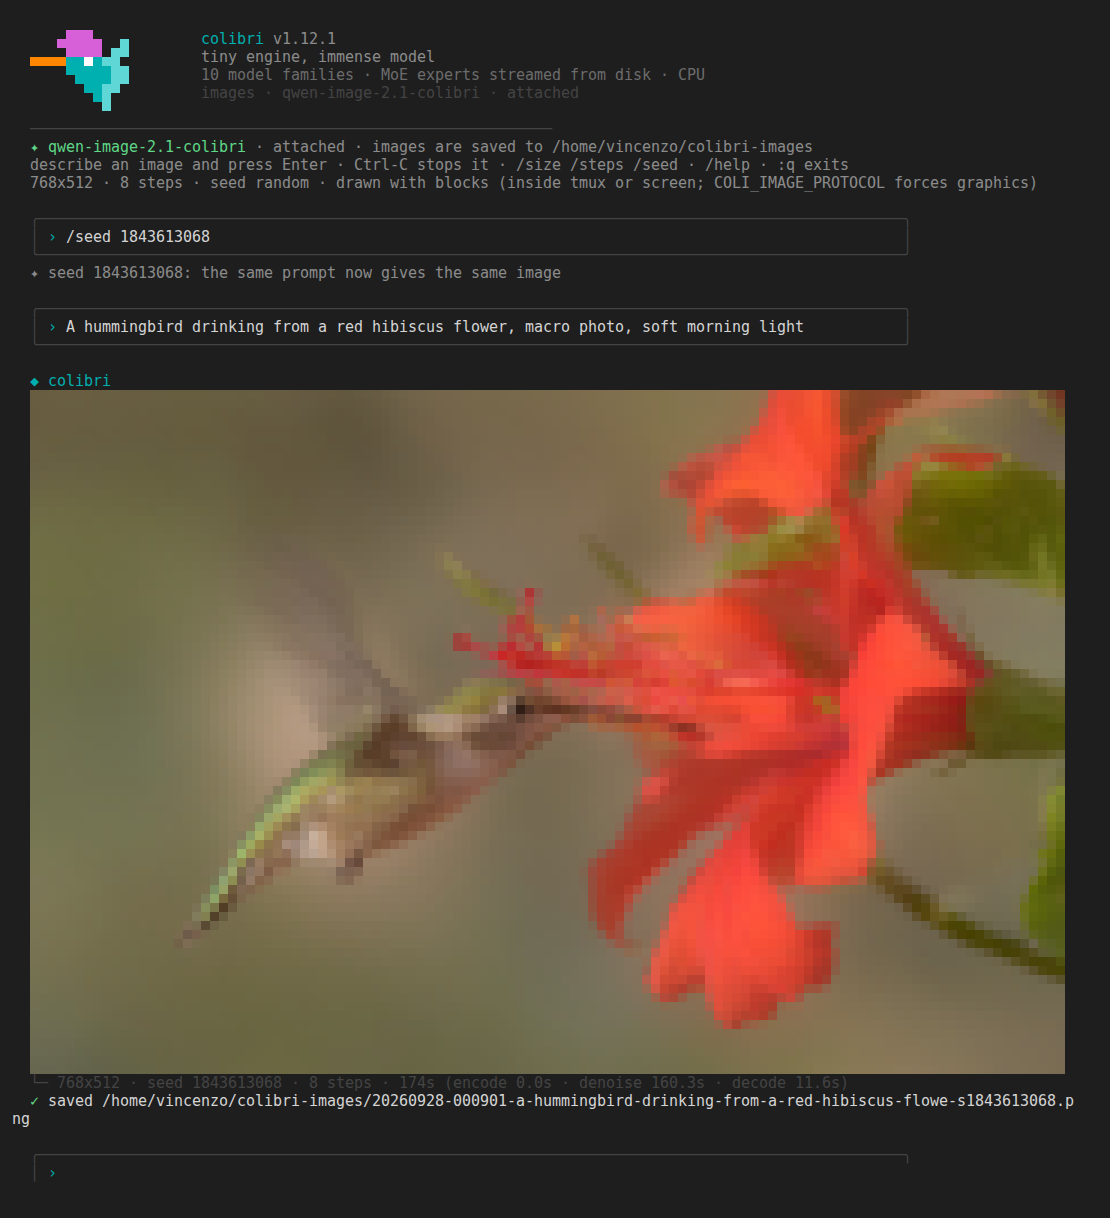
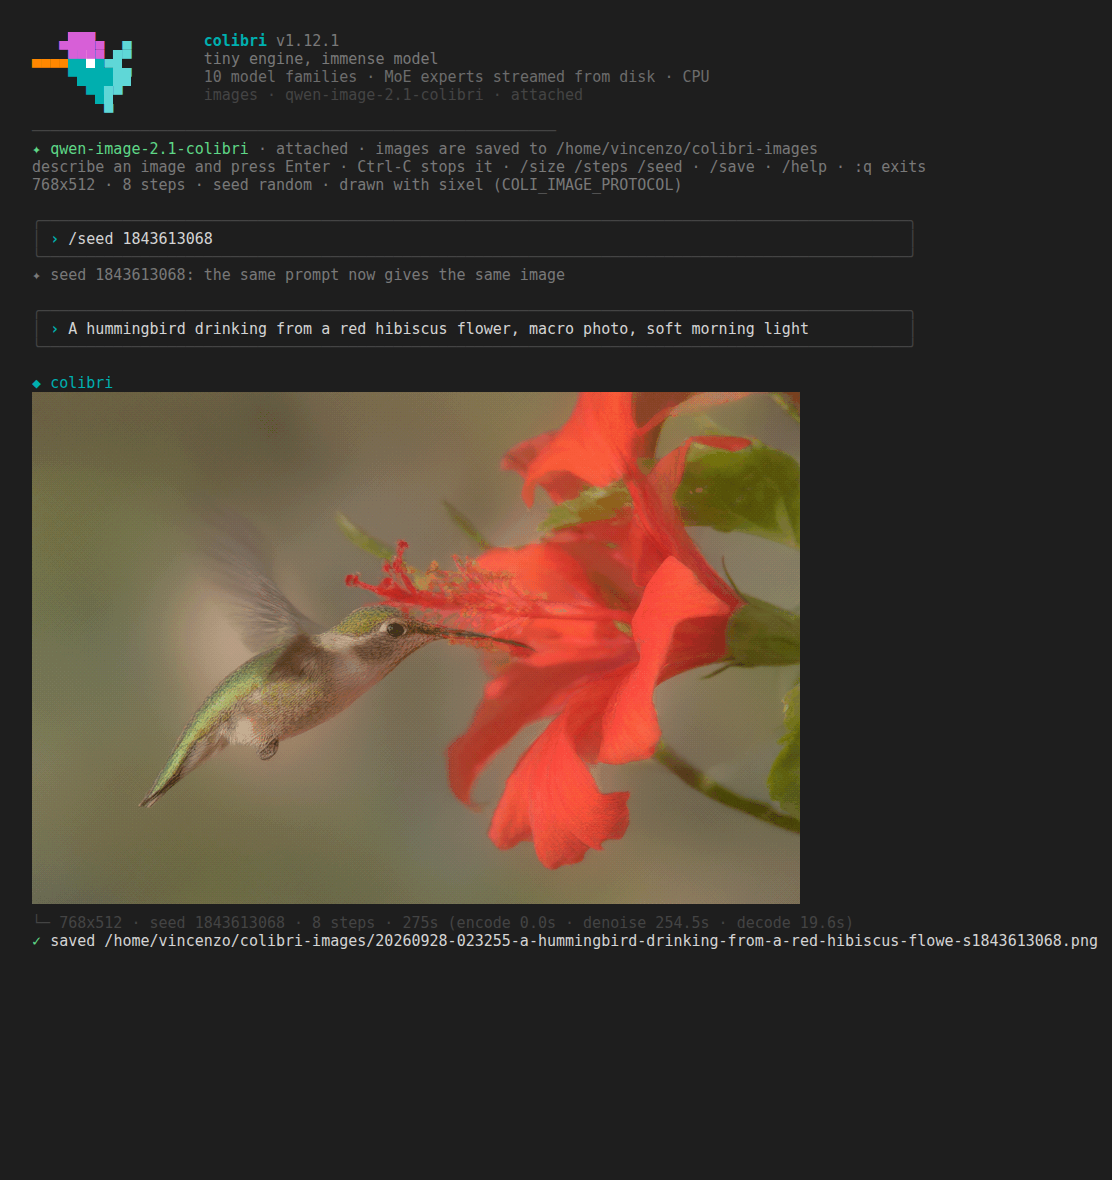
docs(qwen-image): the TUI screenshots as a sixel terminal shows them
Taken from a real session against the real checkpoint, replayed in
xterm.js with its image addon: the finished picture at full resolution
and the live preview forming at step 5 of 8. The half-block screenshots
came from tmux, where the TUI falls back to blocks on purpose.

diff --git a/docs/qwen-image.md b/docs/qwen-image.md
@@ -18,12 +18,15 @@ The same front ends as the text models reach it:
   <img src="media/qwen-image-web.png" width="820" alt="the web UI: the prompt, and the image colibri generated for it, with size, steps, seed and time">
 </p>
 <p align="center">
-  <img src="media/qwen-image-tui.png" width="820" alt="coli chat: the same prompt and seed, the image drawn inside the terminal with half blocks, then saved as a PNG">
+  <img src="media/qwen-image-tui.png" width="820" alt="coli chat: the same prompt and seed, the image drawn inside the terminal at full resolution (sixel), then saved as a PNG">
 </p>
 
 Both pictures come from the real checkpoint on an 8-core CPU server, same
 prompt and seed: the web UI above, `coli chat` attached to the same server
-below (half blocks, the mode that works in every terminal).
+below, as a sixel terminal shows it (the screenshot is xterm.js, the terminal
+of VS Code, fed the session's own bytes; Windows Terminal 1.22 and later, foot,
+WezTerm and kitty show the same picture). Terminals without graphics get half
+blocks, two pixels per character.
 
 ## Download
 
@@ -77,7 +80,7 @@ coli chat --model ~/Models/Qwen-Image-2.1
 ```
 
 <p align="center">
-  <img src="media/qwen-image-tui-preview.png" width="720" alt="coli chat while the image is forming: the live preview redrawn in the terminal, denoising step 3 of 8">
+  <img src="media/qwen-image-tui-preview.png" width="720" alt="coli chat while the image is forming: the live preview, smoothly enlarged, redrawn in place at denoising step 5 of 8">
 </p>
 
 Every line you type is a prompt. While the engine works, a status line shows
